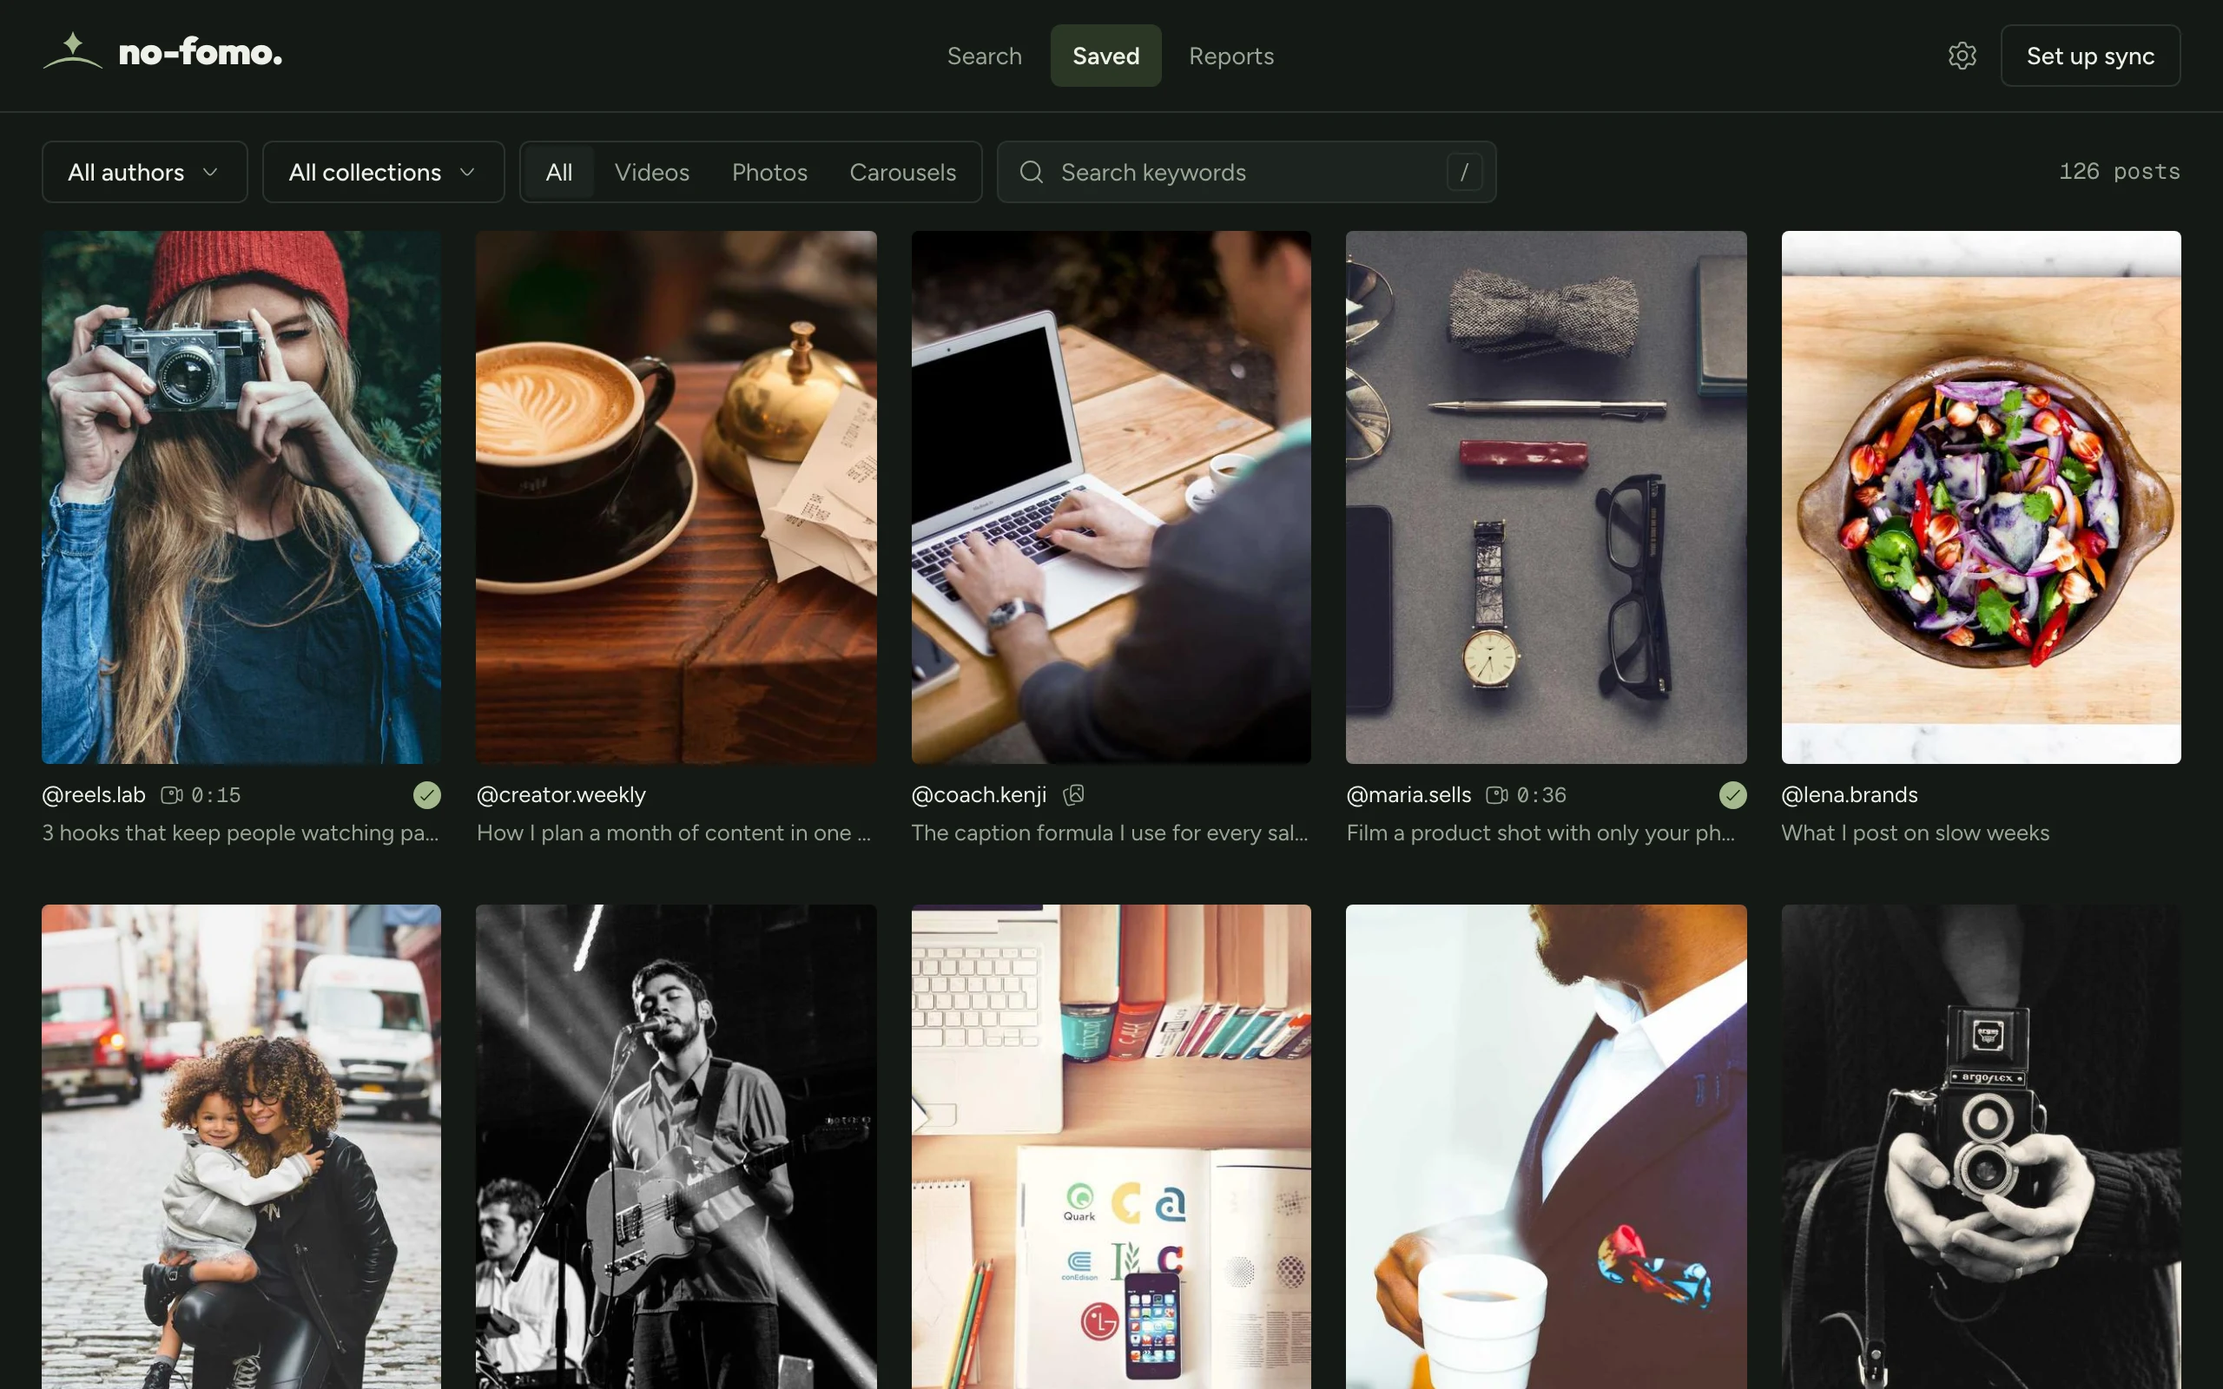
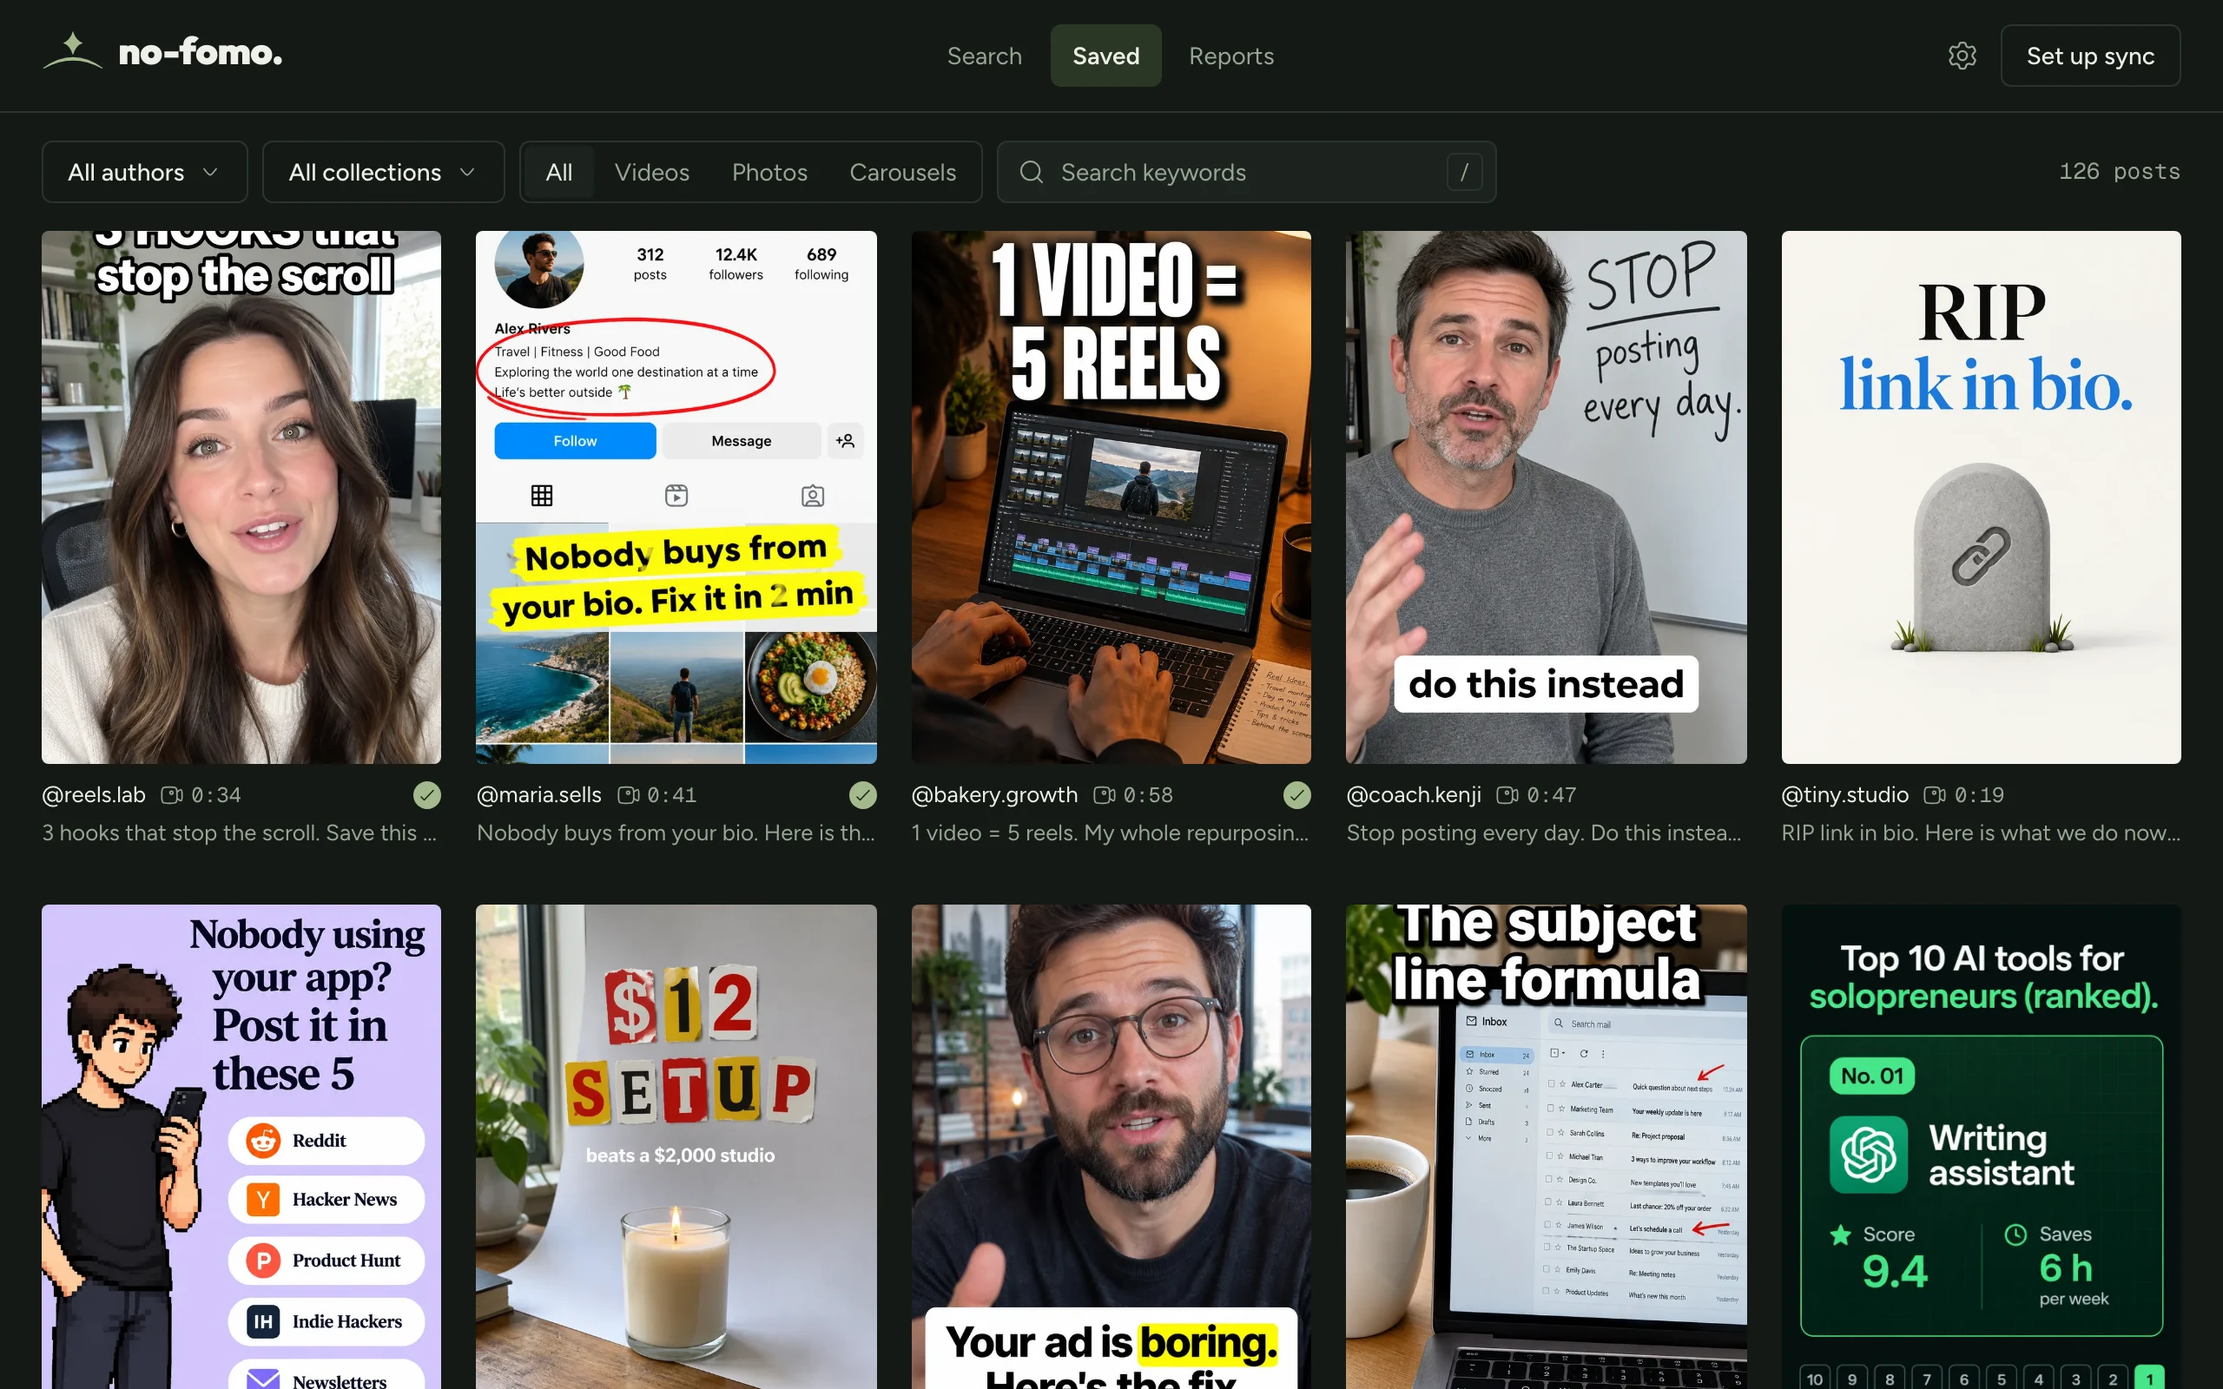
feat(server): seed looks like a real saved feed; README and store images retaken on it
36 made-up informational reels and carousels with on-screen text (generated covers and
avatars in scripts/seed-assets, no real people or accounts), 16 creators, 4 reports.
Covers are copied into the media folder and linked from the app itself, so the seed
works offline and the viewer shows a reel's cover without the extension.

diff --git a/apps/server/scripts/seed.ts b/apps/server/scripts/seed.ts
@@ -1,6 +1,9 @@
 // Fills a local data folder with fake saved posts so the UI can be checked without Instagram.
 // Usage: NO_FOMO_SOCIAL_HOME=$PWD/.dev-data pnpm --filter @no-fomo-social/server seed
-import { mkdirSync } from "node:fs";
+//
+// Posts, creators and captions come from seed-posts.json; covers and avatars are the made-up
+// images in seed-assets/ (generated, no real people or accounts), so the seed works offline.
+import { copyFileSync, mkdirSync, readFileSync } from "node:fs";
 import { join } from "node:path";
 import { loadConfig } from "../src/config";
 import { openDb } from "../src/db/open";
@@ -15,51 +18,39 @@ import {
 const config = loadConfig();
 mkdirSync(config.dataDir, { recursive: true });
 const db = openDb(join(config.dataDir, "no-fomo-social.db"));
-const media = createMediaStore({
-  dir: join(config.dataDir, "media"),
-  extraHosts: ["picsum.photos"],
-  onSaved: (job) => markMediaSaved(db, job),
-});
+const media = createMediaStore({ dir: join(config.dataDir, "media"), onSaved: (job) => markMediaSaved(db, job) });
 
-// Made-up creators and posts. They also appear in public screenshots, so never use real accounts here.
-const AUTHORS = [
-  ["101", "reels.lab", "Reels Lab"], ["102", "maria.sells", "Maria Lopes"], ["103", "bakery.growth", "Bakery Growth"],
-  ["104", "coach.kenji", "Kenji Watanabe"], ["105", "tiny.studio", "Tiny Studio"], ["106", "creator.weekly", "Creator Weekly"],
-  ["107", "lena.brands", "Lena Fischer"],
-] as const;
-const CAPTIONS = [
-  "3 hooks that keep people watching past second 2 #hooks #reels",
-  "How I plan a month of content in one afternoon #contentplan #creator",
-  "The caption formula I use for every sales post #copywriting #hooks",
-  "Film a product shot with only your phone #productphoto #reels",
-  "What I post on slow weeks #contentplan #smallbusiness",
-  "Day 41 of posting every day: what changed #creator",
-  "Turn one long video into five reels #repurpose #hooks",
+const ASSETS = new URL("./seed-assets/", import.meta.url);
+const SPEC = JSON.parse(readFileSync(new URL("./seed-posts.json", import.meta.url), "utf8")) as {
+  authors: Record<string, [string, string]>;
+  posts: { author: string; type: "reel" | "carousel"; seconds?: number; slides?: number; caption: string }[];
+};
+
+const COLLECTIONS: [string, string, string][] = [
+  ["800001", "Hooks", "#hooks"],
+  ["800002", "Content plan", "#contentplan"],
+  ["800003", "Pricing", "pric"],
 ];
 
-/** Picsum (Unsplash) photos of people, products and workspaces, so the grid looks like creators' posts. */
-const COVERS = [823, 431, 1, 26, 488, 838, 453, 20, 856, 91, 64, 513, 452, 3, 628, 225, 4, 250, 30, 367, 180, 454];
-const cover = (n: number) => COVERS[n % COVERS.length]!;
-
 function fakeMedia(i: number) {
-  const type = [2, 1, 8][i % 3]!;
-  const [pk, username, fullName] = AUTHORS[(i * 5) % AUTHORS.length]!;
-  const h = type === 2 ? 853 : 600;
-  const img = (id: number) => ({ candidates: [{ width: 480, height: h, url: `https://picsum.photos/id/${id}/480/${h}` }] });
+  const spec = SPEC.posts[i % SPEC.posts.length]!;
+  const [username, fullName] = SPEC.authors[spec.author]!;
+  const reel = spec.type === "reel";
+  // Links point at the app's own media folder (the cover is copied there below), so the viewer can show
+  // a reel's cover without the extension and without Instagram.
+  const pk = String(9_000_000 + i);
+  const img = (id: string) => ({ candidates: [{ width: 1080, height: reel ? 1920 : 1350, url: `/media/thumbs/${id}` }] });
   return {
-    pk: String(9_000_000 + i), code: `SEED${i}`, taken_at: 1_756_000_000 - i * 86_400, media_type: type,
-    product_type: type === 2 ? "clips" : "feed",
-    caption: { text: CAPTIONS[i % CAPTIONS.length] },
-    saved_collection_ids: [
-      ...(CAPTIONS[i % CAPTIONS.length]!.includes("#hooks") ? ["800001"] : []),
-      ...(CAPTIONS[i % CAPTIONS.length]!.includes("#contentplan") ? ["800002"] : []),
-    ],
-    user: { pk, username, full_name: fullName, profile_pic_url: `https://picsum.photos/seed/nf-avatar-${pk}/150/150` },
-    image_versions2: img(cover(i)),
-    video_duration: type === 2 ? 15 + ((i * 7) % 80) : undefined,
-    like_count: 120 + i * 37,
-    play_count: type === 2 ? 4000 + i * 311 : undefined,
-    carousel_media: type === 8 ? [{ media_type: 1, image_versions2: img(cover(i)) }, { media_type: 1, image_versions2: img(cover(i + 7)) }] : undefined,
+    pk, code: `SEED${i}`, taken_at: 1_756_000_000 - i * 86_400 - (i % 7) * 3600,
+    media_type: reel ? 2 : 8, product_type: reel ? "clips" : "feed",
+    caption: { text: spec.caption },
+    saved_collection_ids: COLLECTIONS.filter(([, , tag]) => spec.caption.toLowerCase().includes(tag)).map(([id]) => id),
+    user: { pk: spec.author, username, full_name: fullName, profile_pic_url: `/media/avatars/${spec.author}` },
+    image_versions2: img(pk),
+    video_duration: reel ? spec.seconds : undefined,
+    like_count: 180 + ((i * 937) % 4200),
+    play_count: reel ? 6000 + ((i * 7919) % 180_000) : undefined,
+    carousel_media: reel ? undefined : Array.from({ length: spec.slides ?? 5 }, () => ({ media_type: 1, image_versions2: img(pk) })),
   };
 }
 
@@ -69,17 +60,24 @@ const { runId } = startRun(db);
 for (let start = 0; start < TOTAL; start += 21) {
   const items = all.slice(start, start + 21).map((media) => ({ media }));
   const more = start + 21 < TOTAL;
-  media.enqueue(ingestSavedPage(db, runId, { items, more_available: more, next_max_id: more ? `p${start}` : undefined }).jobs);
+  ingestSavedPage(db, runId, { items, more_available: more, next_max_id: more ? `p${start}` : undefined });
 }
 ingestCollections(db, runId, {
-  items: [
-    { collection_id: "800001", collection_name: "Hooks", collection_type: "MEDIA" },
-    { collection_id: "800002", collection_name: "Content plan", collection_type: "MEDIA" },
-  ],
+  items: COLLECTIONS.map(([collection_id, collection_name]) => ({ collection_id, collection_name, collection_type: "MEDIA" })),
   more_available: false,
 });
 finishRun(db, runId, { ok: true });
-await media.idle();
+
+// Covers and avatars: copied straight into the media folder, as the downloader would have saved them.
+for (let i = 0; i < TOTAL; i++) {
+  const id = String(9_000_000 + i);
+  copyFileSync(new URL(`covers/${i % SPEC.posts.length}.webp`, ASSETS), media.pathFor("thumb", id));
+  markMediaSaved(db, { kind: "thumb", id, url: "" });
+}
+for (const authorId of Object.keys(SPEC.authors)) {
+  copyFileSync(new URL(`avatars/${authorId}.webp`, ASSETS), media.pathFor("avatar", authorId));
+  markMediaSaved(db, { kind: "avatar", id: authorId, url: "" });
+}
 
 /** A few finished reports, so the Report tab and the Reports list have something to show. */
 function seedReports() {
@@ -93,104 +91,153 @@ function seedReports() {
 }
 
 const DEMO_REPORTS: Record<string, string> = {
-  SEED0: `# @reels.lab: 3 hooks that keep people watching past second 2
+  SEED0: `# @reels.lab: 3 hooks that stop the scroll
 
 ## Summary
-A creator shows three ways to open a reel so people do not scroll away in the first two seconds. Each hook is shown on screen with a short example from a small business account.
+A creator explains why most reels lose viewers in the first two seconds and shows three openings that fix it: show the result first, promise a number, and start mid-action. Each hook is demonstrated with a 3-second example from a small business account, and she ends with the one line of on-screen text she adds to every reel.
 
 ## Key points
 - The first frame must show the result, not the intro. Start with the finished cake, the full room, the final number.
-- Put a short promise on screen in the first second: "3 mistakes", "in 20 seconds".
+- Put a short promise on screen in the first second: "3 mistakes", "in 20 seconds". Numbers beat adjectives.
 - Cut every pause. The first spoken word should land before second 1.
-- Change the picture every 1 to 2 seconds in the first five seconds.
+- Change the picture every 1 to 2 seconds in the first five seconds, then slow down.
+- A hook is a promise; the rest of the reel has to pay it in the order it was promised.
 
 ## Steps
 1. Write the promise as one line of text, no more than 6 words.
 2. Film the ending first and use it as the opening shot.
 3. Trim the first 0.5 seconds of silence in your editor.
 4. Add the promise as on-screen text from 0:00 to 0:02.
+5. Check the retention graph after 48 hours; if the drop is at second 2, rewrite the first line only.
 
 ## Mentioned
-- CapCut (video editor)
+- CapCut (video editor, for trimming and captions)
 - @bakery.growth (example account)
+- Retention graph in Instagram insights
 
 ## On-screen text
-- 0:00: 3 hooks that stop the scroll
+- 0:00: 3 HOOKS that stop the scroll
 - 0:04: Hook 1: show the result first
-- 0:09: Hook 2: promise a number
-- 0:15: Hook 3: start mid-action
+- 0:11: Hook 2: promise a number
+- 0:19: Hook 3: start mid-action
+- 0:29: Save this for your next reel
 
 ## Transcript
-Most people lose viewers in the first two seconds, and it is almost always the opening. Here are three hooks that fix it. One: show the result first...
+Most people lose viewers in the first two seconds, and it is almost always the opening. Here are three hooks that fix it. One: show the result first. Nobody waits for your intro, so open with the finished cake, the full room, the final number. Two: promise a number. "Three mistakes", "in twenty seconds". A number tells people how long they have to stay. Three: start mid-action. Cut the hello, cut the breath, the first word lands before second one. And whatever hook you pick, put it on screen as text for the first two seconds. That is the whole trick.
 
 ## Post info
 - Author: @reels.lab (Reels Lab)
-- Length: 0:15
-- Hashtags: #hooks #reels
+- Length: 0:34
+- Hashtags: #hooks #reels #contentcreator
 - Analyzed: demo report, made-up data
 `,
-  SEED3: `# @maria.sells: Film a product shot with only your phone
+  SEED1: `# @maria.sells: Nobody buys from your bio. Fix it in 2 min
 
 ## Summary
-A short tutorial on filming a clean product shot at home with a phone, a window and a sheet of white paper.
+A screen-recorded walkthrough of a small business profile: what the bio says now, why a visitor cannot tell what to do, and a three-line rewrite (who it is for, what they get, one action). The third step, replacing the link with a single offer page, is called the one everyone skips.
 
 ## Key points
-- Use window light from the side, never from behind the product.
-- A white paper curve behind the product hides the table edge.
-- Lock focus and exposure before you move the phone.
+- A visitor decides in about 3 seconds whether to follow or leave; the bio has to answer "is this for me?" first.
+- Line 1 names the customer, line 2 names the result, line 3 is one action with one link.
+- A page with five links is the same as no link. One offer, one button.
+- Pinned posts do the job of the old highlights: proof, process, offer.
 
 ## Steps
-1. Place the product 1 meter from a window.
-2. Tape white paper to the wall and let it curve onto the table.
-3. Tap and hold on the product to lock focus.
-4. Move the phone slowly in a half circle for 5 seconds.
+1. Write who you help in 5 words. No adjectives.
+2. Write the result they get, with a number if you have one.
+3. Replace the link in bio with a single offer page.
+4. Pin three posts: one proof, one process, one offer.
+5. Ask a friend to read the profile for 3 seconds and say what you sell.
 
 ## Mentioned
 - Nothing named.
 
 ## On-screen text
-- 0:02: Window light only
-- 0:07: Paper sweep = no edges
-- 0:12: Hold to lock focus
+- 0:00: Nobody buys from your bio. Fix it in 2 min
+- 0:08: Line 1: who
+- 0:14: Line 2: result
+- 0:22: Line 3: one action
+- 0:33: Step 3 is the one everyone skips
 
 ## Transcript
-You do not need a studio for this. All you need is a window...
+Your bio is the first thing people read and most bios say nothing. Let me show you one and fix it live. "Coach, mom, coffee lover." Who is this for? What do I get? There is no answer, so people leave. Line one: who you help...
 
 ## Post info
 - Author: @maria.sells (Maria Lopes)
-- Hashtags: #productphoto #reels
+- Length: 0:41
+- Hashtags: #instagramtips #smallbusiness
 - Analyzed: demo report, made-up data
 `,
-  SEED6: `# @bakery.growth: Turn one long video into five reels
+  SEED2: `# @bakery.growth: 1 video = 5 reels
 
 ## Summary
-A workflow for cutting one 10 minute talking video into five short reels, each built around one idea with its own hook.
+A workflow for cutting one 10-minute talking video into five short reels, each built around one idea with its own hook. Shown on a laptop timeline, with the exact clip lengths and the order the clips are posted.
 
 ## Key points
 - Mark every moment where you make one clear point. Each one can be a reel.
 - Give each clip its own first line as a hook, written on screen.
+- 20 to 40 seconds is the sweet spot for a teaching clip.
 - Post the strongest clip first and the rest over the next two weeks.
 
 ## Steps
-1. Record one 10 minute video answering five questions from your audience.
-2. Write down the time of each answer.
+1. Record one 10-minute video answering five questions from your audience.
+2. Write down the time of each answer while you watch it back.
 3. Cut each answer to 20 to 40 seconds.
 4. Add a hook line and captions to each clip.
+5. Schedule them two to three days apart.
 
 ## Mentioned
-- Descript (editor)
-- CapCut (editor)
+- Descript (editor, for the transcript-based cuts)
+- CapCut (editor, for captions)
 
 ## On-screen text
-- 0:01: 1 video = 5 reels
-- 0:10: Mark the moments
+- 0:00: 1 VIDEO = 5 REELS
+- 0:09: Mark the moments
+- 0:21: 20 to 40 seconds each
+- 0:40: Strongest clip first
 
 ## Transcript
-If you film one long video a week, you never run out of reels...
+If you film one long video a week, you never run out of reels. Here is the whole workflow...
 
 ## Post info
 - Author: @bakery.growth (Bakery Growth)
-- Hashtags: #repurpose #hooks
+- Length: 0:58
+- Hashtags: #repurpose #contentplan
+- Analyzed: demo report, made-up data
+`,
+  SEED15: `# @seo.sofia: Stop doing SEO by hand
+
+## Summary
+A weekly 20-minute routine for small sites: one keyword report, one page refresh, one internal link pass. The creator shows her dashboard and explains which numbers she ignores.
+
+## Key points
+- Check one report a week, not ten. Impressions by page is enough.
+- Refresh the page that lost the most clicks, not the one you like most.
+- Every new post links to two old ones and gets one link back.
+- Ignore the overall ranking number; watch clicks per page.
+
+## Steps
+1. Open the pages report and sort by lost clicks.
+2. Update the title and the first paragraph of the top loser.
+3. Add two internal links from that page to newer posts.
+4. Write it down with the date, so next month you can see what moved.
+
+## Mentioned
+- Search Console (pages report)
+
+## On-screen text
+- 0:00: Stop doing SEO by hand
+- 0:06: 20 minutes a week
+- 0:18: Sort by lost clicks
+- 0:35: Two links out, one link in
+
+## Transcript
+You do not need an SEO tool. You need twenty minutes and one report...
+
+## Post info
+- Author: @seo.sofia (Sofia Marin)
+- Length: 0:49
+- Hashtags: #seo #marketing
 - Analyzed: demo report, made-up data
 `,
 };
